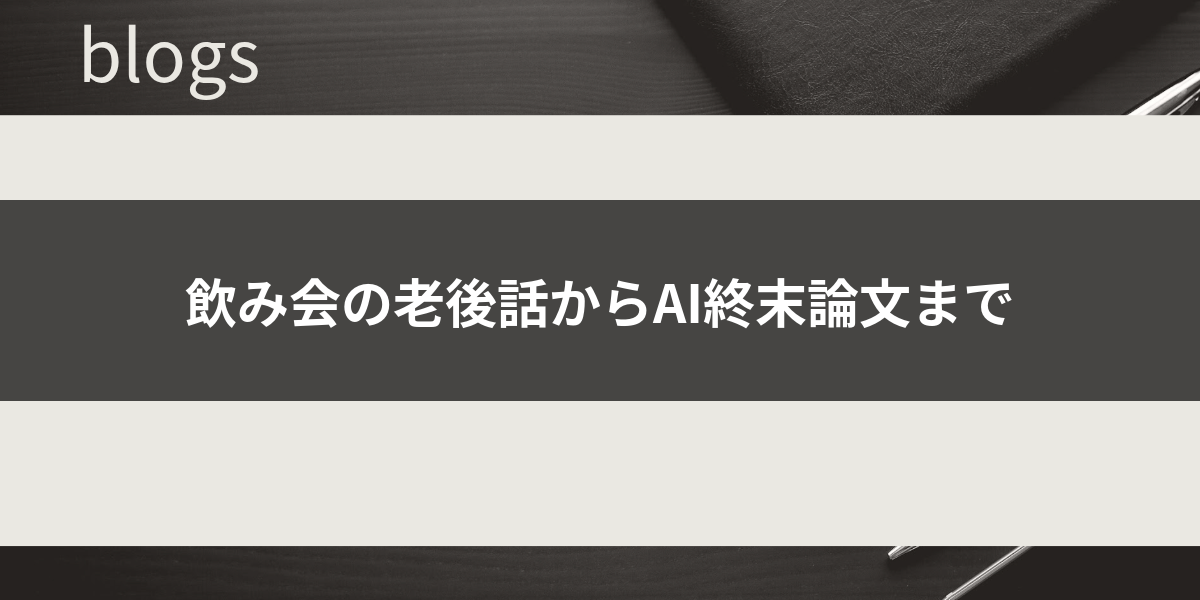
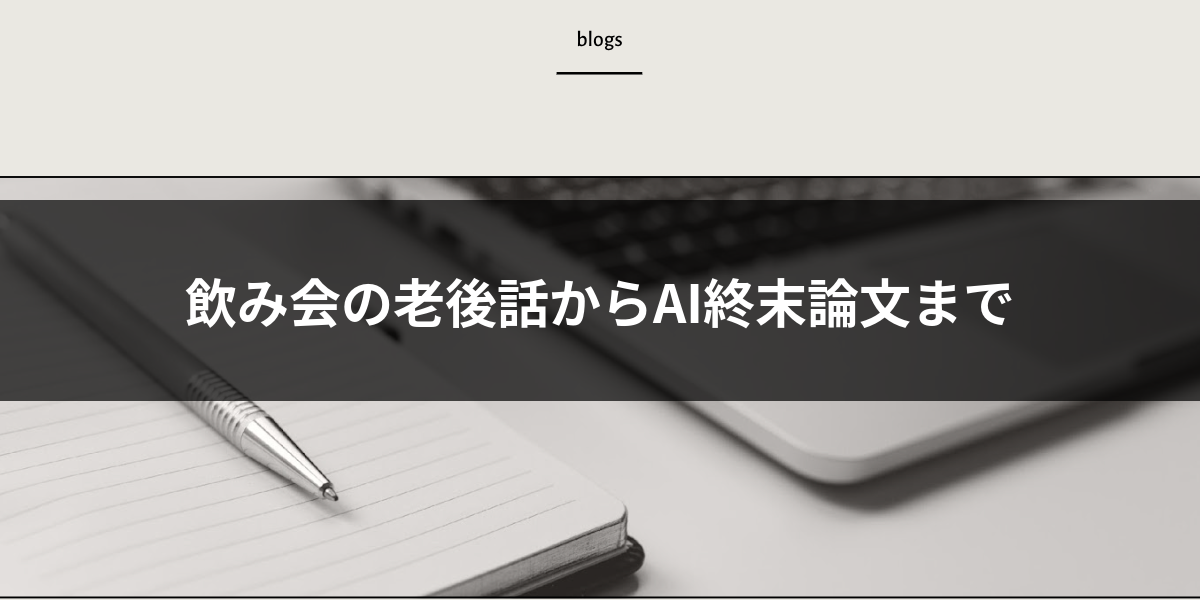
002.png再生成と日付修正
- default.png更新に伴い002.pngを再生成
- 日付を2025年1月16日に修正（250716→250116）

🤖 Generated with [Claude Code](https://claude.ai/code)

diff --git a/article/002/index.html b/article/002/index.html
@@ -156,7 +156,7 @@
         
         <article>
             <h3>飲み会の老後話からAI終末論文まで</h3>
-            <div class="article-meta">250716 22:25</div>
+            <div class="article-meta">250116 22:25</div>
             
             <p>先日の飲み会でリーダーから老後は何をするか考えているか聞かれた。</p>
             <p>正直考えていなかったので、答えに詰まった。飲み会が終わって考えてみると、とりあえずは子どもたちが成人するまでーーーそこまで働いていられればとりあえずは良いかと考えている。</p>

diff --git a/index.html b/index.html
@@ -2,7 +2,7 @@
 <script>
 // 記事データ
 const posts = [
-    { id: '002', title: '飲み会の老後話からAI終末論文まで', date: '250716 22:25' },
+    { id: '002', title: '飲み会の老後話からAI終末論文まで', date: '250116 22:25' },
     { id: '001', title: 'AI時代における統合者の必要性', date: '250712 11:58' }
 ];
 </script>
